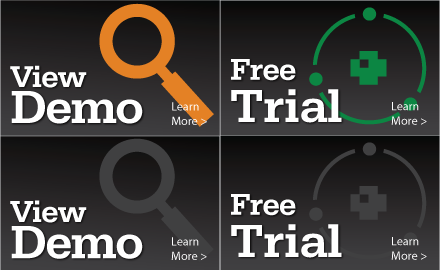
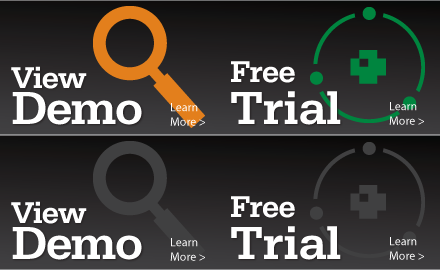
added small cta and js hovers

diff --git a/public/stylesheets/application.css b/public/stylesheets/application.css
@@ -262,7 +262,7 @@ h2 a.small_text {
   background: #000000;
 }
 .orange {
-  color: #ff7800;
+  color: #f8981c;
 }
 
 .white {
@@ -539,7 +539,74 @@ ul#employee_nav_ul li.employee_logout {
 ul#admin_nav_ul li a, ul#employee_nav_ul li.employee_logout a {
   background: #d00;
 }
-
+/*********************************************/
+/******************TRIAL BUTTONS***************/
+div.free_trial, div.view_demo {
+  width: 220px;
+  height: 135px;
+  margin-top: 10px;
+}
+div.free_trial a {
+  background: url('../images/free_trial_buttons.png') -220px -135px no-repeat;
+}
+div.view_demo a {
+  background: url('../images/free_trial_buttons.png') 0px -135px no-repeat;
+}
+div.free_trial a, div.view_demo a {
+  width: 220px;
+  height: 135px;
+  float: left;
+  text-indent: -3000em;
+}
+/*div.view_demo a span, div.free_trial a span {
+  display: block;
+}*/
+div.free_trial.highlight a:hover, div.free_trial span.big_button_hover{
+  width: 220px;
+  height: 135px;
+  float: left;
+  background: url('../images/free_trial_buttons.png') -220px 0px no-repeat;
+}
+div.view_demo.highlight a:hover, div.view_demo span.big_button_hover {
+  background: url('../images/free_trial_buttons.png') 0px 0px no-repeat;
+  width: 220px;
+  height: 135px;
+  float: left;
+}
+/*********************************************/
+/*************SMALL TRIAL BUTTONS*************/
+.cta_button {
+  position: relative;
+  float: right;
+  width: 150px;
+  margin: 0px 0px 10px 5px;
+  height: 50px;
+  background: url('../images/cta_bg1.png') repeat-x;
+}
+.cta_button a {
+  display: block;
+  width: 150px;
+  height: 50px;
+  text-indent: -3000em;
+}
+div.cta_free_trial a {
+  background: url('../images/cta_buttons.png') -150px -50px;
+}
+div.cta_free_trial.highlight a:hover, div.cta_free_trial span.small_cta_button  {
+  background: url('../images/cta_buttons.png') -150px -0px;
+  width: 150px;
+  height: 50px;
+  float: left;
+}
+div.cta_view_demo a {
+  background: url('../images/cta_buttons.png') -0px -50px;
+}
+div.cta_view_demo.highlight a:hover, div.cta_view_demo span.small_cta_button {
+  background: url('../images/cta_buttons.png') -0px -0px;
+  width: 150px;
+  height: 50px;
+  float: left;
+}
 /********************************/
 /************HEADER*************/
 #hci_logo {
@@ -993,7 +1060,7 @@ ul.service_bullets li {
 .pro_sol_boxes {
   position: relative;
   float: left;
-  margin-bottom: 20px;
+/*  margin-bottom: 20px;*/
   height: 225px;
 }
 .pro_sol_boxes h2 {
@@ -1282,40 +1349,6 @@ p.works {
 .contact_header {
   background: url('../images/headers/contact_us.png') no-repeat;
   width: 550px;
-}
-/*********************************************/
-/******************TRIAL BUTTONS***************/
-div.free_trial, div.view_demo {
-  width: 220px;
-  height: 135px;
-  margin-top: 10px;
-}
-div.free_trial a {
-  background: url('../images/free_trial_buttons.png') -220px -135px no-repeat;
-}
-div.view_demo a {
-  background: url('../images/free_trial_buttons.png') 0px -135px no-repeat;
-}
-div.free_trial a, div.view_demo a {
-  width: 220px;
-  height: 135px;
-  float: left;
-  text-indent: -3000em;
-}
-/*div.view_demo a span, div.free_trial a span {
-  display: block;
-}*/
-div.free_trial a:hover, div.free_trial span.fb_hover{
-  width: 220px;
-  height: 135px;
-  float: left;
-  background: url('../images/free_trial_buttons.png') -220px 0px no-repeat;
-}
-div.view_demo a:hover, div.view_demo span.fb_hover {
-  background: url('../images/free_trial_buttons.png') 0px 0px no-repeat;
-  width: 220px;
-  height: 135px;
-  float: left;
 }
 /*********************************************/
 /***************QUOTE BOXES*******************/

diff --git a/public/javascripts/application.js b/public/javascripts/application.js
@@ -17,12 +17,12 @@ $(document).ready(function() {
         var $span = $('> span.hover', this).css({opacity : 0});
         $(this).hover(function() {
           if ($(this).hasClass('active')) {
-            $span.stop().fadeTo(500, 0);
+            $span.stop().fadeTo(400, 0);
           } else {
-           $span.stop().fadeTo(500, 1); 
+           $span.stop().fadeTo(400, 1); 
           }
         }, function() {
-          $span.stop().fadeTo(500, 0);
+          $span.stop().fadeTo(400, 0);
       });
       $(this).click( function() {
         $span.fadeTo(200, 0);
@@ -43,6 +43,53 @@ $(document).ready(function() {
    current_link.addClass('active');
    }
 });
+
+// Sets up the fade on the Big CTA Buttons
+$(document).ready(function() {
+  $('div.big_cta_button').removeClass('highlight');
+  $('div.big_cta_button a').append('<span class="big_button_hover" />').each(function(){
+        $(this).css({fontSize : 0});
+        var $span = $('> span.big_button_hover', this).css({opacity : 0});
+        $(this).hover(function() {
+          if ($(this).hasClass('active')) {
+            $span.stop().fadeTo(400, 0);
+          } else {
+           $span.stop().fadeTo(400, 1); 
+          }
+        }, function() {
+          $span.stop().fadeTo(400, 0);
+      });
+      $(this).click( function() {
+        $span.fadeTo(300, 0);
+        $('div.big_cta_button a').removeClass('active');
+        $(this).addClass('active');
+      });
+  });
+});
+
+// Sets up the fade on the Small CTA Buttons
+$(document).ready(function() {
+  $('div.cta_button').removeClass('highlight');
+  $('div.cta_button a').append('<span class="small_cta_button" />').each(function(){
+        $(this).css({fontSize : 0});
+        var $span = $('> span.small_cta_button', this).css({opacity : 0});
+        $(this).hover(function() {
+          if ($(this).hasClass('active')) {
+            $span.stop().fadeTo(400, 0);
+          } else {
+           $span.stop().fadeTo(400, 1); 
+          }
+        }, function() {
+          $span.stop().fadeTo(400, 0);
+      });
+      $(this).click( function() {
+        $span.fadeTo(300, 0);
+        $('div.small_cta_button a').removeClass('active');
+        $(this).addClass('active');
+      });
+  });
+});
+
 // This is the Timer for the home page banners
 $(document).everyTime(15000, function () {
   $('#banner_scroll_r').trigger('click');
